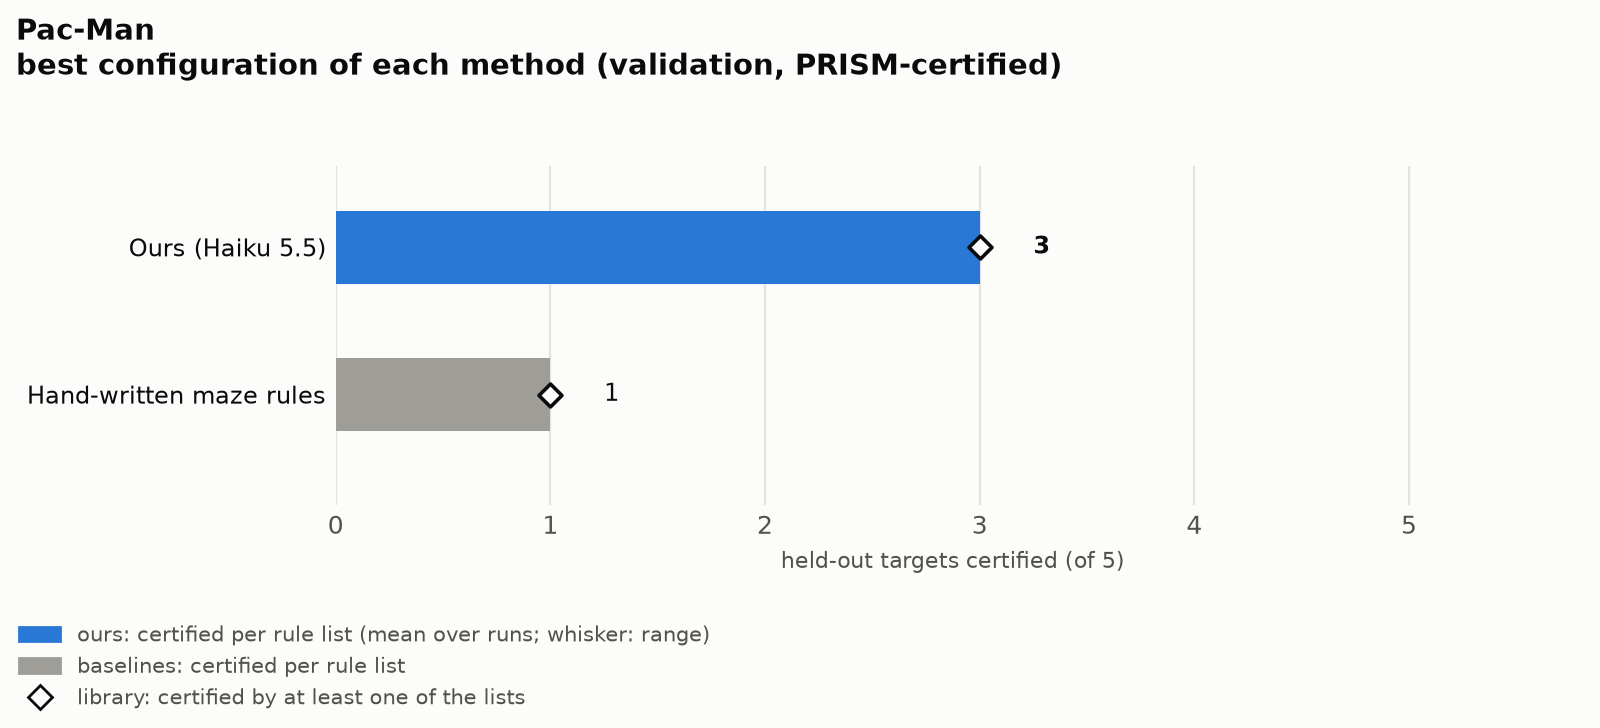
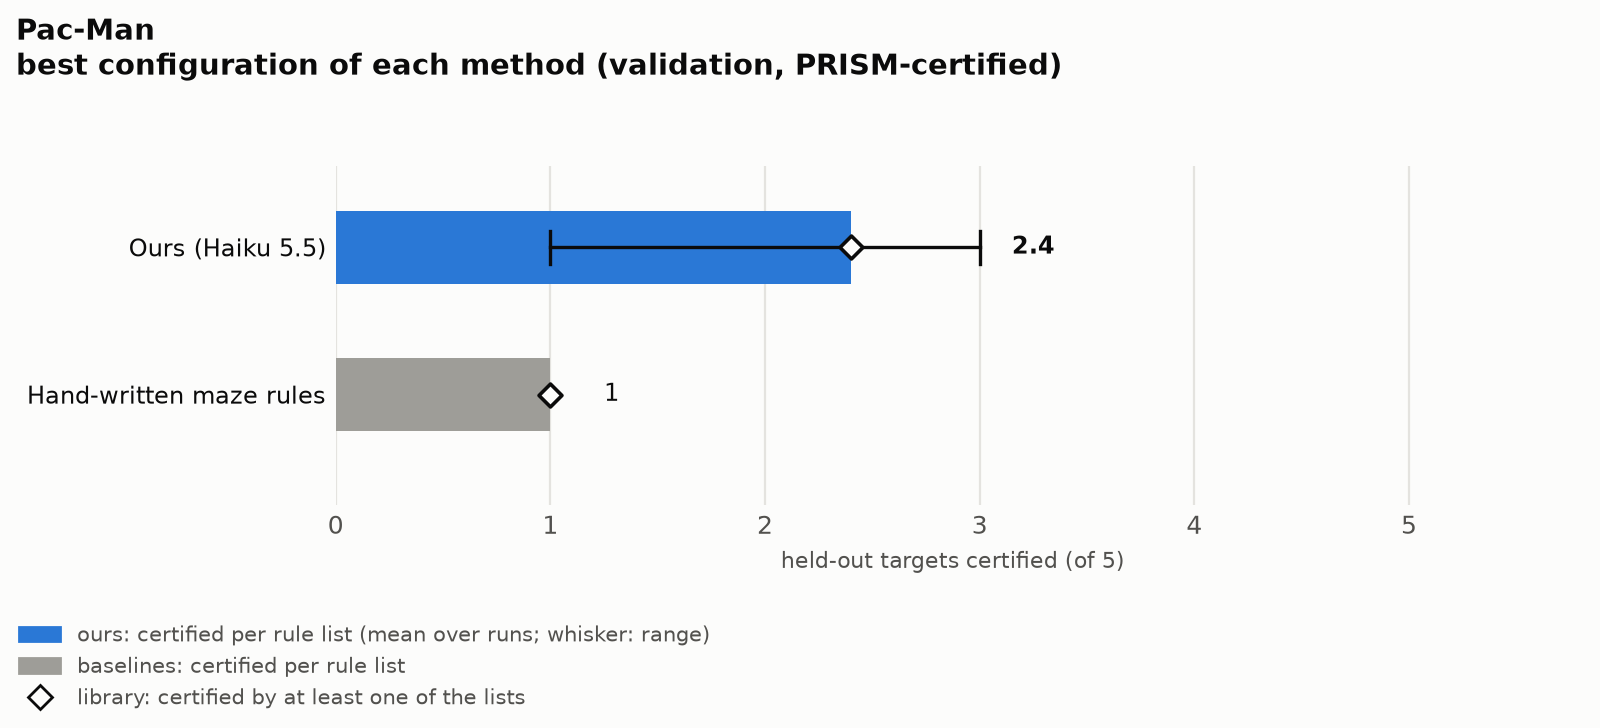
[plan 01] step 2: RQ1 report, figures and index regenerated after rebase (Pac-Man core now 5 runs: 2.40 per list)

Changed region(s): [[0.3438, 0.272, 0.6562, 0.3929]]

diff --git a/PRISM-Guided-Learning/out/results/experiments/README.md b/PRISM-Guided-Learning/out/results/experiments/README.md
@@ -2,7 +2,7 @@
 
 Generated by `python src/run_experiment.py --index` from `configs/experiments/*.yaml` and the run store (`docs/experiments.md`). Per cell and benchmark: runs found / repeats wanted (✓: complete), runs started but unfinished (pending), and the repeats `--run` would launch (missing). Cells with `launch: false` (Sonnet) need Asher's go-ahead. Validation targets only; the test set is sealed.
 
-**Missing:** 138 repeats of 45 configurations (a configuration several cells share counts once).
+**Missing:** 128 repeats of 40 configurations (a configuration several cells share counts once).
 
 RQ2 at a glance: [rq2_overview.png](rq2_overview.png) (every ablation cell against the core configuration, held-out targets certified per rule list).
 
@@ -12,7 +12,7 @@ RQ2 at a glance: [rq2_overview.png](rq2_overview.png) (every ablation cell again
 
 | cell | grids | grids_noclose | families | pacman |
 |---|---|---|---|---|
-| Ours, Haiku 5.5 | 5/5 ✓ | 5/5 ✓ | 5/5 ✓ | 3/5, **2 missing** |
+| Ours, Haiku 5.5 | 5/5 ✓ | 5/5 ✓ | 5/5 ✓ | 5/5 ✓ |
 | Ours, Sonnet 5.5 | 3/3 ✓ |  | 3/3 ✓ |  |
 | 1-2-3-Go! (reimplemented: trees over raw variables) (baseline) | certified ✓ |  | certified ✓ |  |
 | 1-2-3-Go! with our features (baseline) | certified ✓ | certified ✓ | certified ✓ |  |
@@ -28,7 +28,7 @@ RQ2 at a glance: [rq2_overview.png](rq2_overview.png) (every ablation cell again
 
 | cell | grids | families | pacman |
 |---|---|---|---|
-| Best order each round (core: of 24; Pac-Man: of 4 rotations) | 5/5 ✓ | 5/5 ✓ | 3/5, **2 missing** |
+| Best order each round (core: of 24; Pac-Man: of 4 rotations) | 5/5 ✓ | 5/5 ✓ | 5/5 ✓ |
 | Best of 4 rotations each round | 0/3, **3 missing** | 0/3, **3 missing** |  |
 | Best of 24 orders each round |  |  | 0/3, **3 missing** |
 | Fixed declared order (no choice) | 3/3 ✓ | 3/3 ✓ | 0/3, **3 missing** |
@@ -41,7 +41,7 @@ RQ2 at a glance: [rq2_overview.png](rq2_overview.png) (every ablation cell again
 
 | cell | grids | families | pacman |
 |---|---|---|---|
-| All features (core) | 5/5 ✓ | 5/5 ✓ | 3/5, **2 missing** |
+| All features (core) | 5/5 ✓ | 5/5 ✓ | 5/5 ✓ |
 | No shortest-path feature `closer` | 3/3 ✓ | 0/3, **3 missing** |  |
 | Local features only (no `closer`, no `toward`) | 0/3, **3 missing** | 0/3, **3 missing** |  |
 | No slip feature `risky` | 0/3, **3 missing** | 0/3, **3 missing** |  |
@@ -56,10 +56,10 @@ RQ2 at a glance: [rq2_overview.png](rq2_overview.png) (every ablation cell again
 
 | cell | grids | families | pacman |
 |---|---|---|---|
-| Feedback, no restarts (core) | 5/5 ✓ | 5/5 ✓ | 3/5, **2 missing** |
-| Feedback, restart when a round gains < 0.05 | 3/3 ✓ | 3/3 ✓ | 0/3, **3 missing** |
-| Feedback, restart after 2 rounds without gain | 3/3 ✓ | 3/3 ✓ | 0/3, **3 missing** |
-| Restarts only (no feedback) | 3/5, **2 missing** | 3/5, **2 missing** | 0/5, **5 missing** |
+| Feedback, no restarts (core) | 5/5 ✓ | 5/5 ✓ | 5/5 ✓ |
+| Feedback, restart when a round gains < 0.05 | 3/3 ✓ | 3/3 ✓ | 3/3 ✓ |
+| Feedback, restart after 2 rounds without gain | 3/3 ✓ | 3/3 ✓ | 3/3 ✓ |
+| Restarts only (no feedback) | 5/5 ✓ | 5/5 ✓ | 5/5 ✓ |
 | Restarts only, equal cost (18 rounds) | 0/5, **5 missing** | 0/5, **5 missing** | 0/5, **5 missing** |
 | Feedback, more rounds (8 grids, 10 families) | 3/3 ✓ | 3/3 ✓ |  |
 
@@ -69,7 +69,7 @@ RQ2 at a glance: [rq2_overview.png](rq2_overview.png) (every ablation cell again
 
 | cell | grids | families | pacman |
 |---|---|---|---|
-| Core prompt (generality instruction) | 5/5 ✓ | 5/5 ✓ | 3/5, **2 missing** |
+| Core prompt (generality instruction) | 5/5 ✓ | 5/5 ✓ | 5/5 ✓ |
 | No generality instruction | 3/3 ✓ | 3/3 ✓ | 0/3, **3 missing** |
 | Strategy in words first | 3/3 ✓ | 3/3 ✓ | 0/3, **3 missing** |
 | Tie-breaking explained | 3/3 ✓ | 3/3 ✓ | 0/3, **3 missing** |
@@ -81,7 +81,7 @@ RQ2 at a glance: [rq2_overview.png](rq2_overview.png) (every ablation cell again
 
 | cell | grids | families | pacman |
 |---|---|---|---|
-| Three instances per set, 5 rounds (core) | 5/5 ✓ | 5/5 ✓ | 3/5, **2 missing** |
+| Three instances per set, 5 rounds (core) | 5/5 ✓ | 5/5 ✓ | 5/5 ✓ |
 | One instance per set | 0/3, **3 missing** | 0/3, **3 missing** |  |
 | Six instances per set | 0/3, **3 missing** | 3/3 ✓ |  |
 | Three more instances scored but not shown | 3/3 ✓ | 3/3 ✓ |  |
@@ -94,10 +94,10 @@ RQ2 at a glance: [rq2_overview.png](rq2_overview.png) (every ablation cell again
 
 | cell | grids | families | pacman |
 |---|---|---|---|
-| Full feedback (core) | 5/5 ✓ | 5/5 ✓ | 3/5, **2 missing** |
+| Full feedback (core) | 5/5 ✓ | 5/5 ✓ | 5/5 ✓ |
 | Blame by one-step regret | 3/3 ✓ | 3/3 ✓ | 0/3, **3 missing** |
-| Random blame (placebo) | 3/3 ✓ | 3/3 ✓ | 0/3, **3 missing** |
+| Random blame (placebo) | 3/5, **2 missing** | 3/5, **2 missing** | 0/5, **5 missing** |
 | No blame | 1/3, **2 missing** | 1/3, **2 missing** | 0/3, **3 missing** |
 | Results table only | 0/3, **3 missing** | 0/3, **3 missing** | 0/3, **3 missing** |
-| States named by their features | 0/3, **3 missing** | 0/3, **3 missing** | 0/3, **3 missing** |
+| States named by their features | 0/5, **5 missing** | 0/5, **5 missing** | 5/5 ✓ |
 | Plus a failing trace | 3/3 ✓ | 3/3 ✓ | 0/3, **3 missing** |

diff --git a/PRISM-Guided-Learning/out/results/experiments/rq1_comparison/REPORT.md b/PRISM-Guided-Learning/out/results/experiments/rq1_comparison/REPORT.md
@@ -72,7 +72,7 @@ Targets 0-7: 5 held out (each list's own training instances are left out).
 
 | method | configuration | figure | runs | certified | every target | best list | library | ties open | sets solved | $ / set |
 |---|---|---|---|---|---|---|---|---|---|---|
-| Ours (Haiku 5.5) | **Ours, Haiku 5.5** | ✓ | 3 | 3.00 | 3.00 | 3 | 3.0 | – | 67% (0%–100%) | 0.005 (0.004–0.007) |
+| Ours (Haiku 5.5) | **Ours, Haiku 5.5** | ✓ | 5 | 2.40 (1.00–3.00) | 2.40 (1.00–3.00) | 2 (1–3) | 2.4 (1.0–3.0) | 1.50 (1.00–2.00) | 40% (0%–100%) | 0.006 (0.004–0.008) |
 | Hand-written maze rules | Hand-written maze rules | ✓ | – | 1.00 | 1.00 | 1 | 1.0 | 1.00 | – | – |
 
 ![Pac-Man (trained on horizons 14, 16, 18; 5 held out: 8, 10, 12, 20, 25)](rq1_pacman.png)
